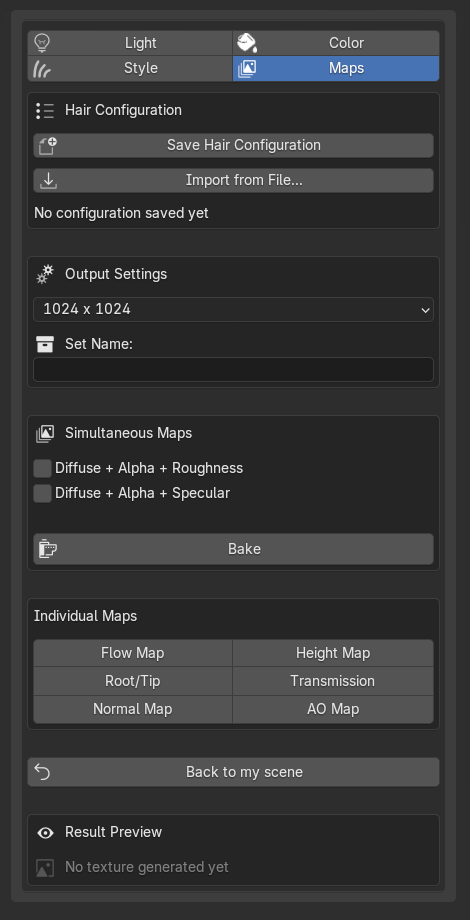
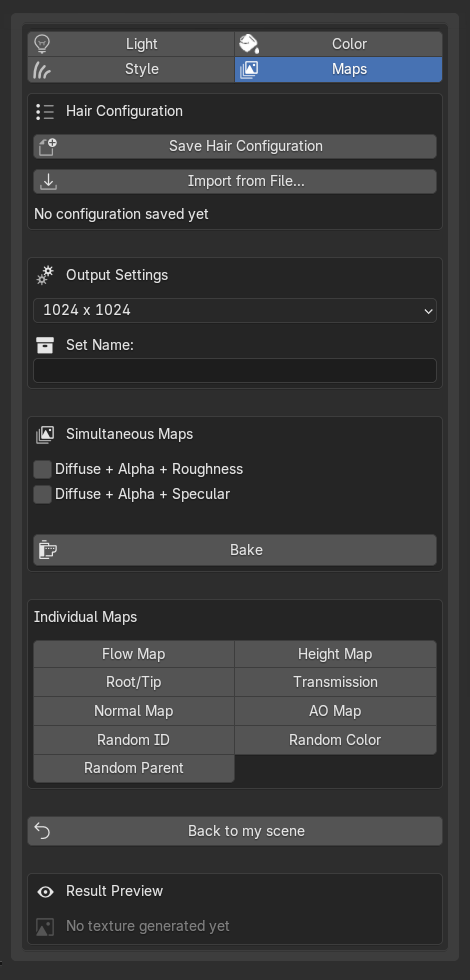
update

Changed region(s): [[0.0596, 0.4261, 0.9532, 0.9739], [0.0596, 0.0304, 0.9532, 0.2435], [0.0596, 0.2739, 0.3574, 0.3957]]

diff --git a/index.html b/index.html
@@ -461,6 +461,13 @@
                 <figcaption class="lang-en">The addon's texture maps</figcaption>
               </figure>
 
+              <figure class="media-slot">
+                <img src="assets/img/en/bake-random-maps.png" alt="Mapas Random ID, Random Color e Random Parent gerados pelo Estúdio" class="lang-pt" loading="lazy">
+                <img src="assets/img/en/bake-random-maps.png" alt="Random ID, Random Color and Random Parent maps generated by the Studio" class="lang-en" loading="lazy">
+                <figcaption class="lang-pt">Novos mapas de variação: Random ID, Random Color e Random Parent</figcaption>
+                <figcaption class="lang-en">New variation maps: Random ID, Random Color and Random Parent</figcaption>
+              </figure>
+
             <h3 id="editor-perfil" class="lang-pt">Editor de Perfil: dicas rápidas</h3>
             <h3 id="profile-editor" class="lang-en">Profile Editor: quick tips</h3>
             <ul>
